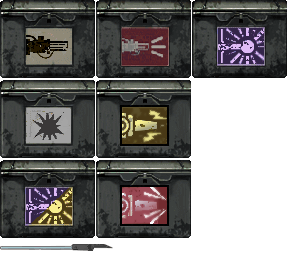
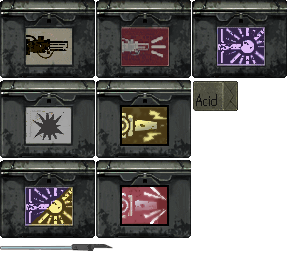
1.0.13 - add acid bomb - reduce damage of aphe shell - reduce acid mist damage against large creature

Changed region(s): [[0.6562, 0.3125, 0.8438, 0.4375]]

diff --git a/README.md b/README.md
@@ -1,15 +1,16 @@
 # BVTA-Extension
 An extension to BVTA which adds some new ammunition items made by community modders
+This mod can be used without BVTA
 
 Railgun
-  - Depleted Fuel Railgun Shell from Ammo Mod by Laryssa
-  - APHE Proximity Railgun Shell from APHE Railgun Shells by Birb
-  - APFSDS Railgun Shell from APFSDS Railgun Shells by Birb
+  - Depleted Fuel Railgun Shell from "Ammo Mod" by Laryssa
+  - APHE Proximity Railgun Shell from "APHE Railgun Shells" by Birb
+  - APFSDS Railgun Shell from "APFSDS Railgun Shells" by Birb
   - Acid Mist Railgun Shell
   - Explosive Canister Shell
 
 Chaingun
-  - Chaingun Explosive Ammunition Box from EK Armory by Videogames
+  - Chaingun Explosive Ammunition Box from "EK Armory" by Videogames
   - Chaingun Scattering Ammunition Box by Zyleand
 
 Pulse Laser
